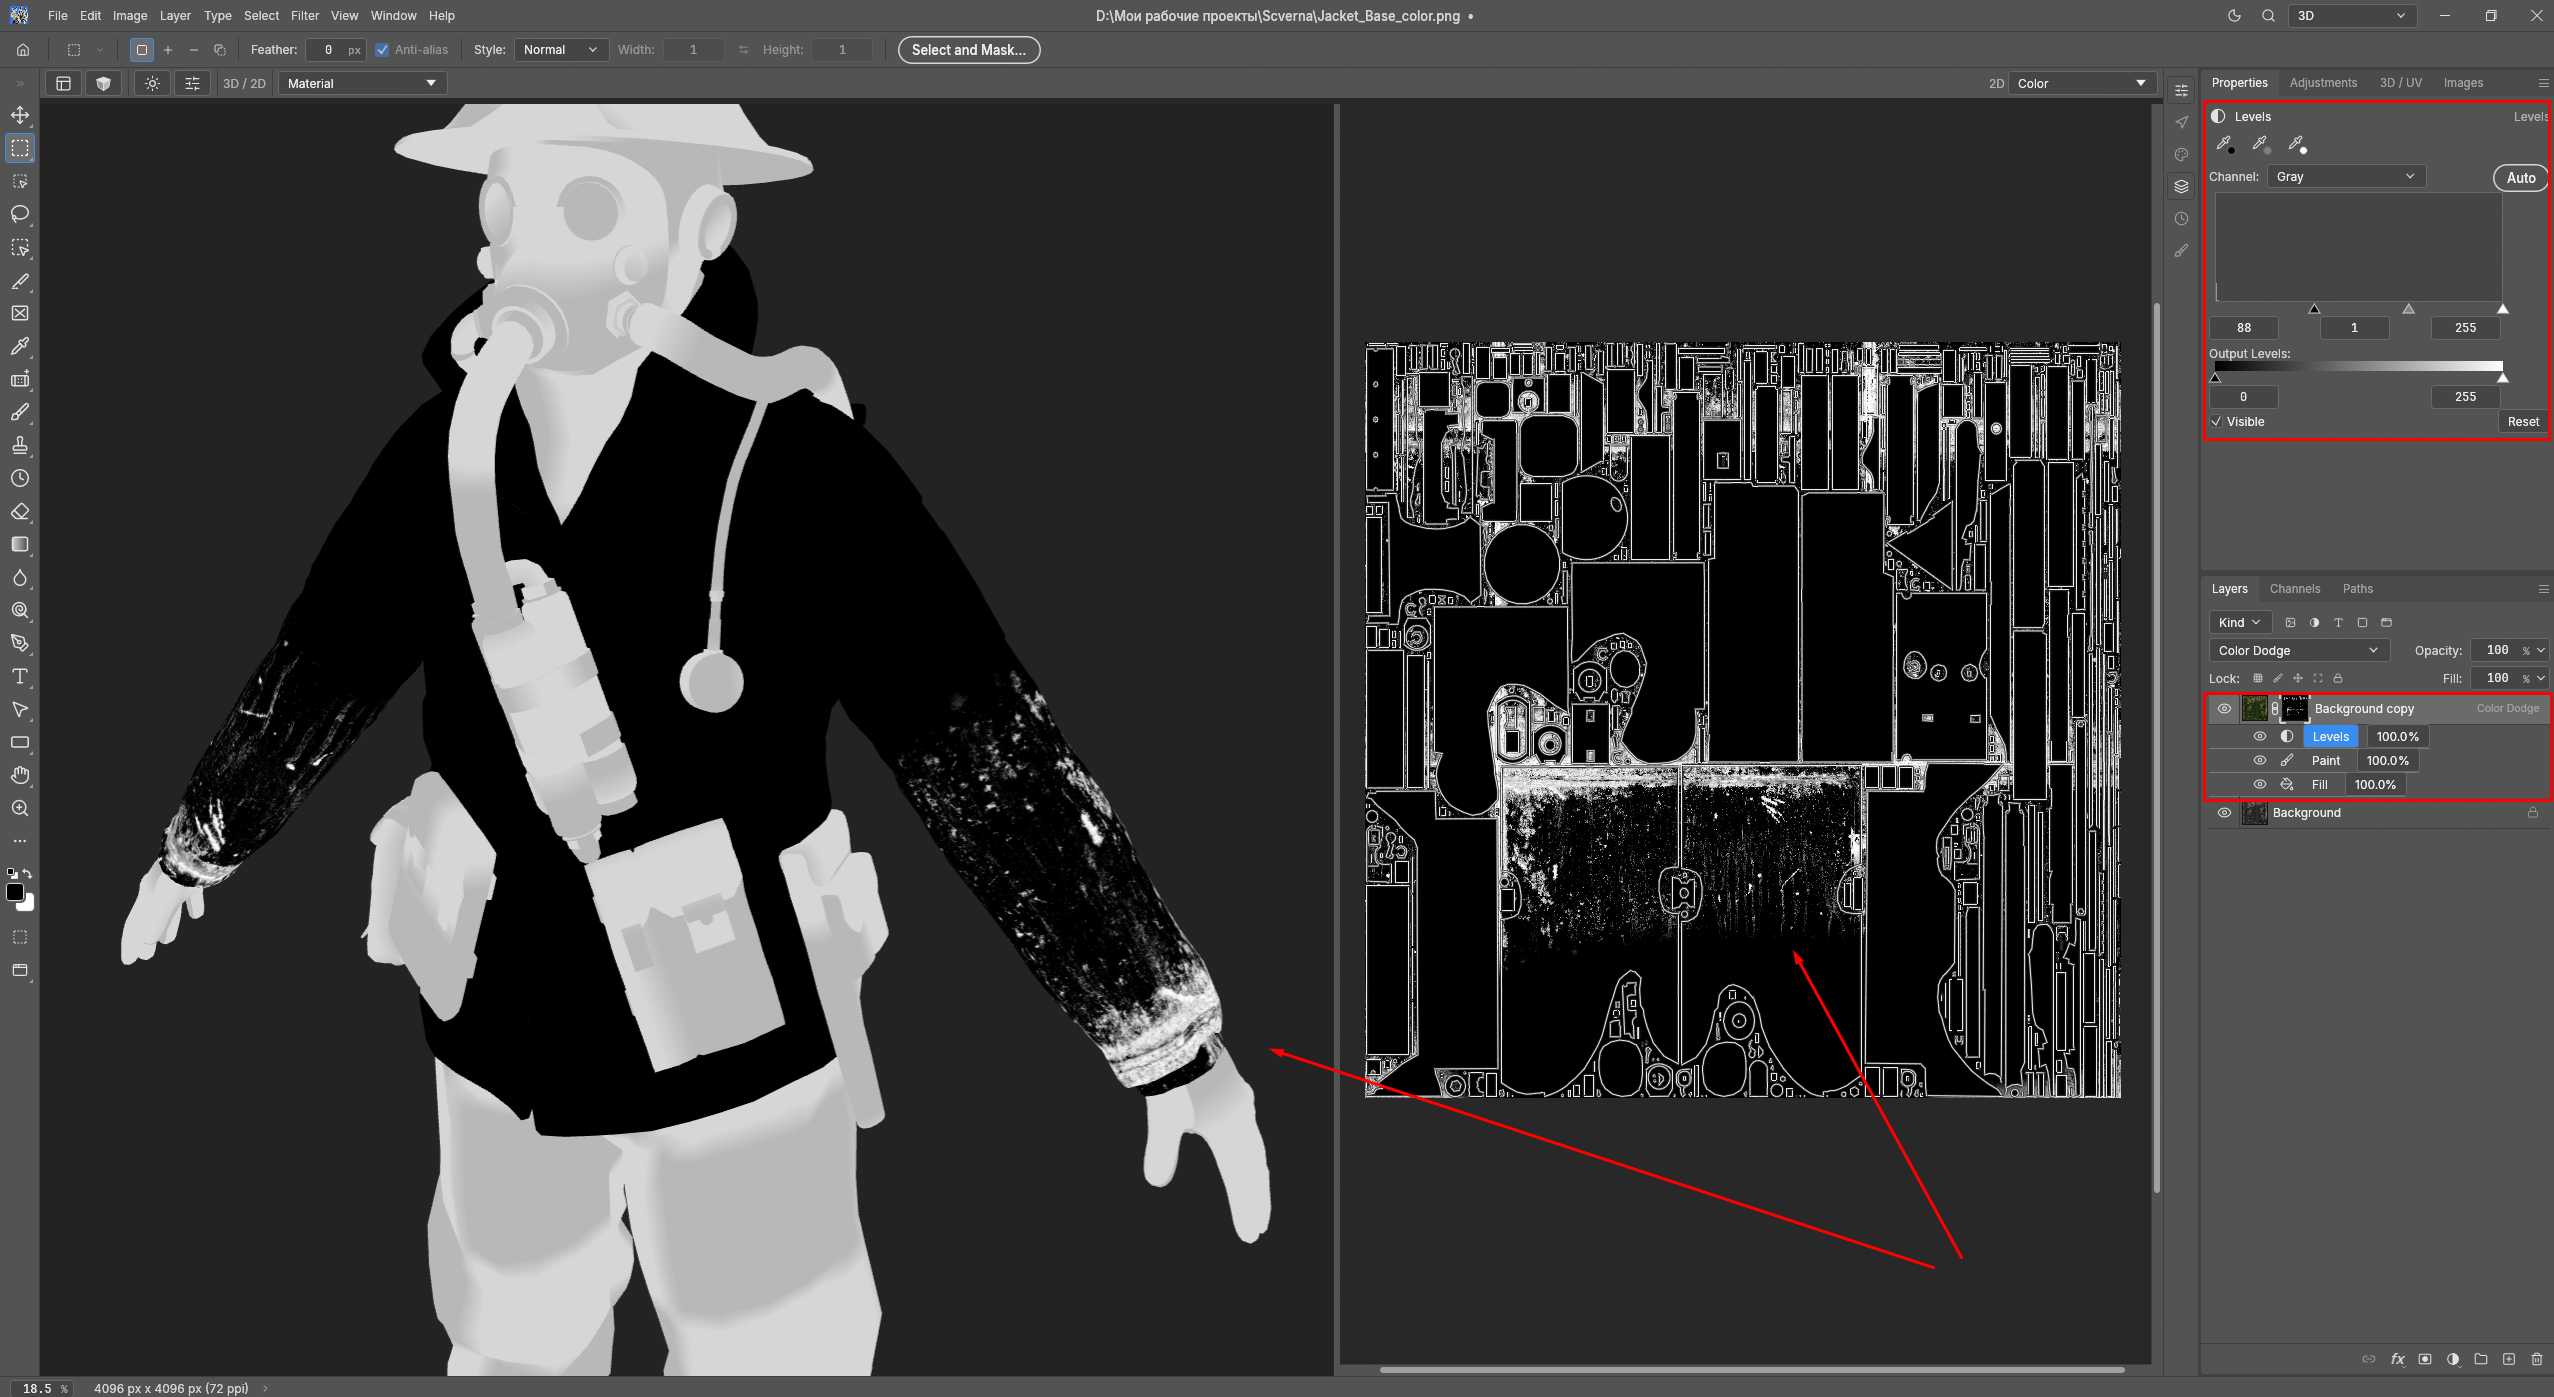
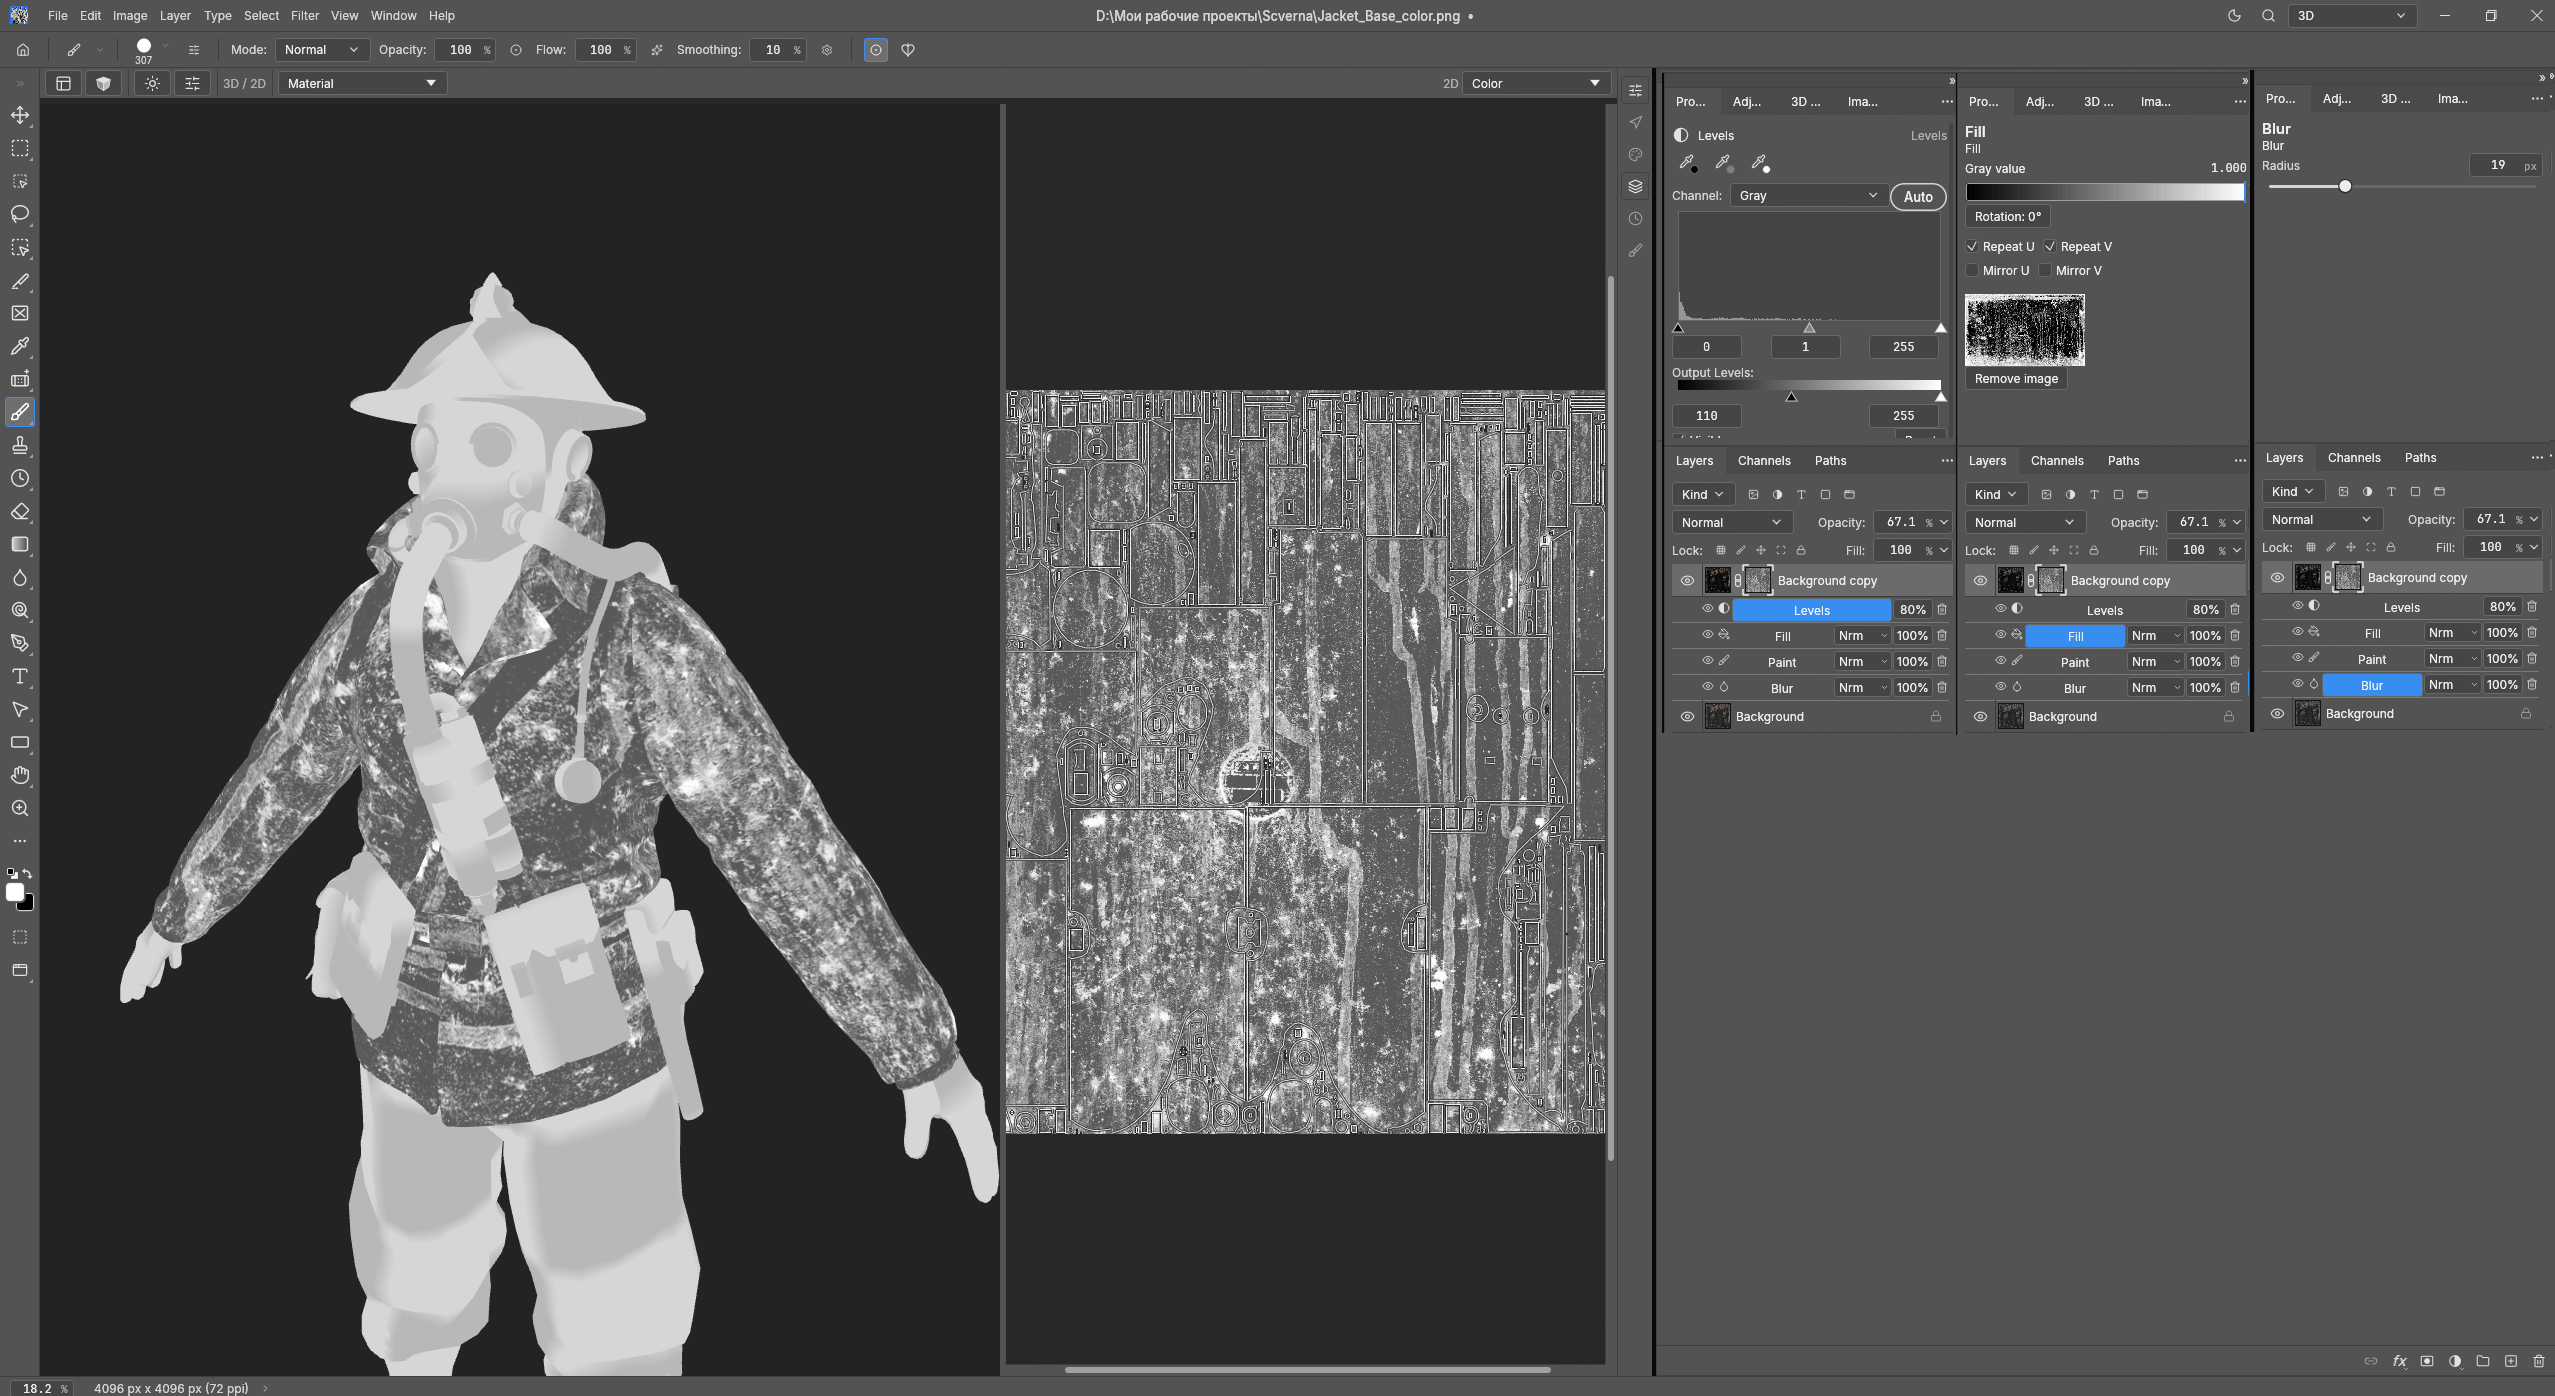
Refresh UV workspace presentation screenshots

diff --git a/docs/uv-workbench-presentation.md b/docs/uv-workbench-presentation.md
@@ -2,7 +2,7 @@
 
 The optional `uv-workbench` feature combines a native 3D model viewport with
 PhotoCraft's layered texture editor. This presentation shows the updated
-PhotoCraft 0.16.0 build using screenshots supplied by the contributor.
+PhotoCraft build using screenshots supplied by the contributor.
 
 ## 1. Overview
 
@@ -13,13 +13,12 @@ panel exposes texture bindings while the ordinary Layers panel remains available
 
 ## 2. Mask sublayers
 
-An editable mask stack contains Paint, Fill and Levels effects. The screenshot
-shows the expanded stack, Levels controls and the grayscale mask on both the
-model and the 2D texture. The red annotations belong to the supplied screenshot.
-Use `.pcuv` or `.pcraft` to retain the editable stack; flat texture export stores
-the rendered result.
+An editable mask stack contains Paint, Fill, Levels and Blur effects. The
+screenshot shows the grayscale mask on the model and UV map, with Levels, Fill
+and Blur controls displayed side by side. Use `.pcuv` or `.pcraft` to retain the
+editable stack; flat texture export stores the rendered result.
 
-![Mask sublayers: Paint, Fill and Levels with a shared 2D/3D mask preview](images/uv-showcase/mask-sublayers.png)
+![Mask sublayers: Paint, Fill, Levels and Blur with a shared 2D/3D mask preview](images/uv-showcase/mask-sublayers.png)
 
 ## 3. Polygon wireframe
 
